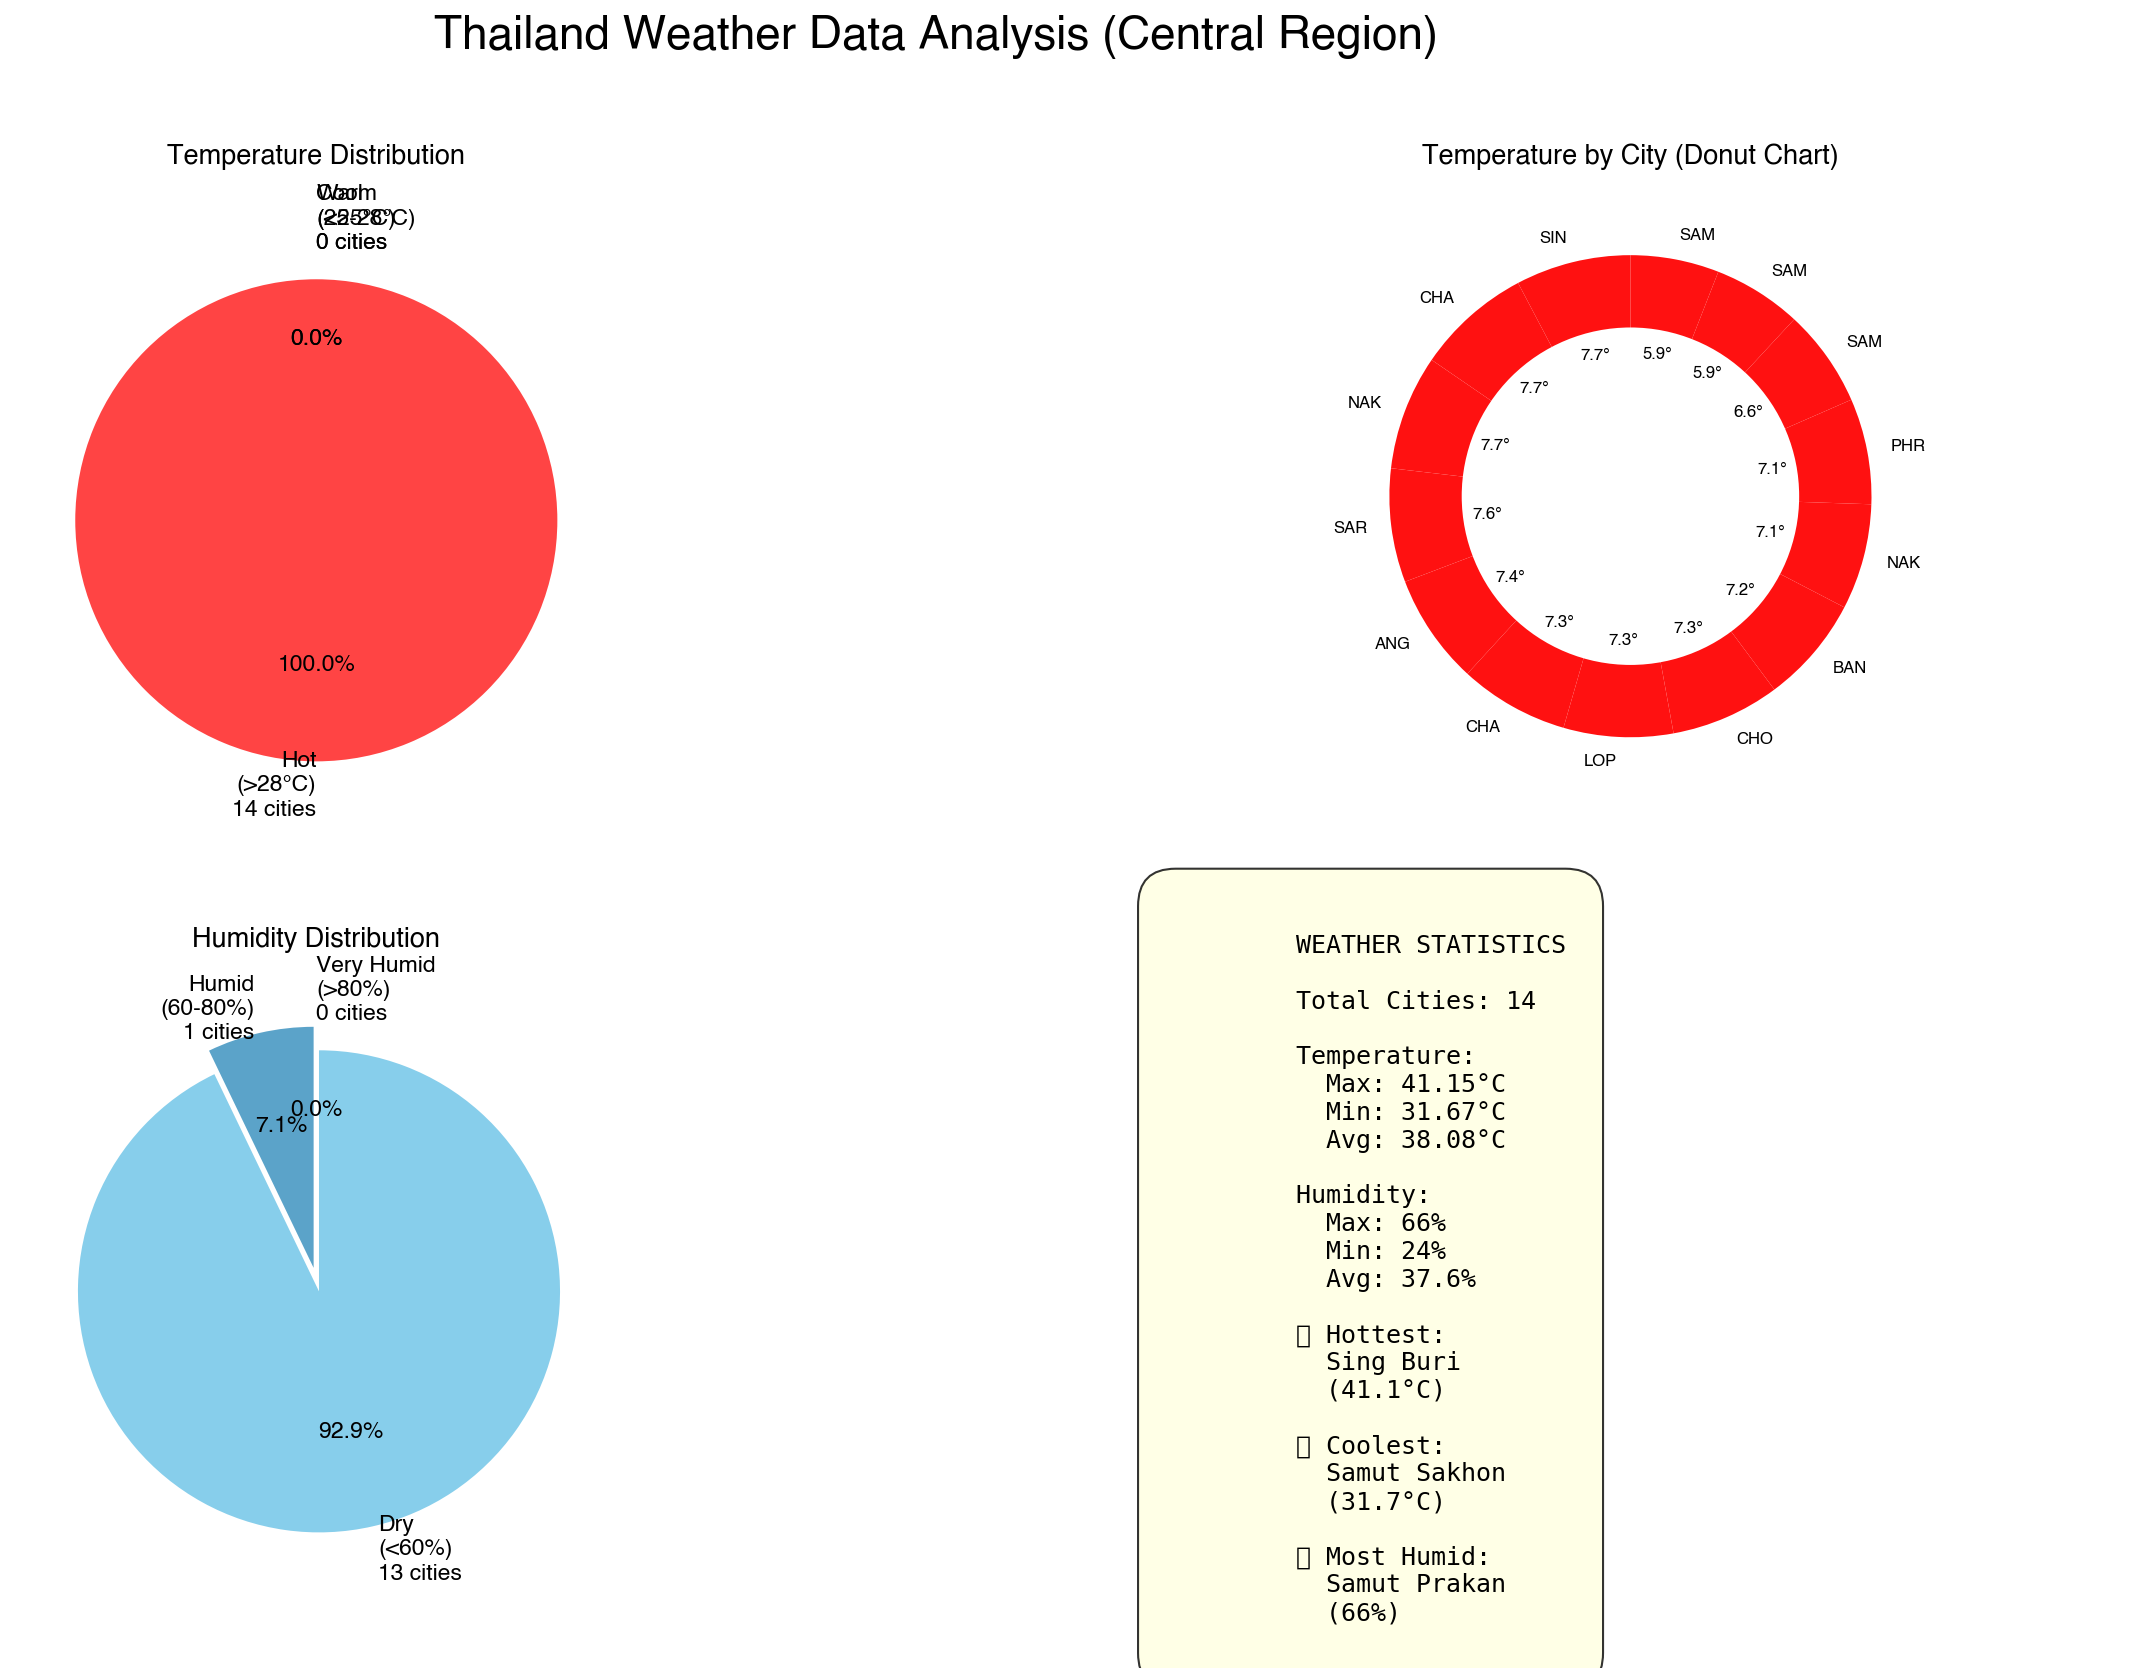
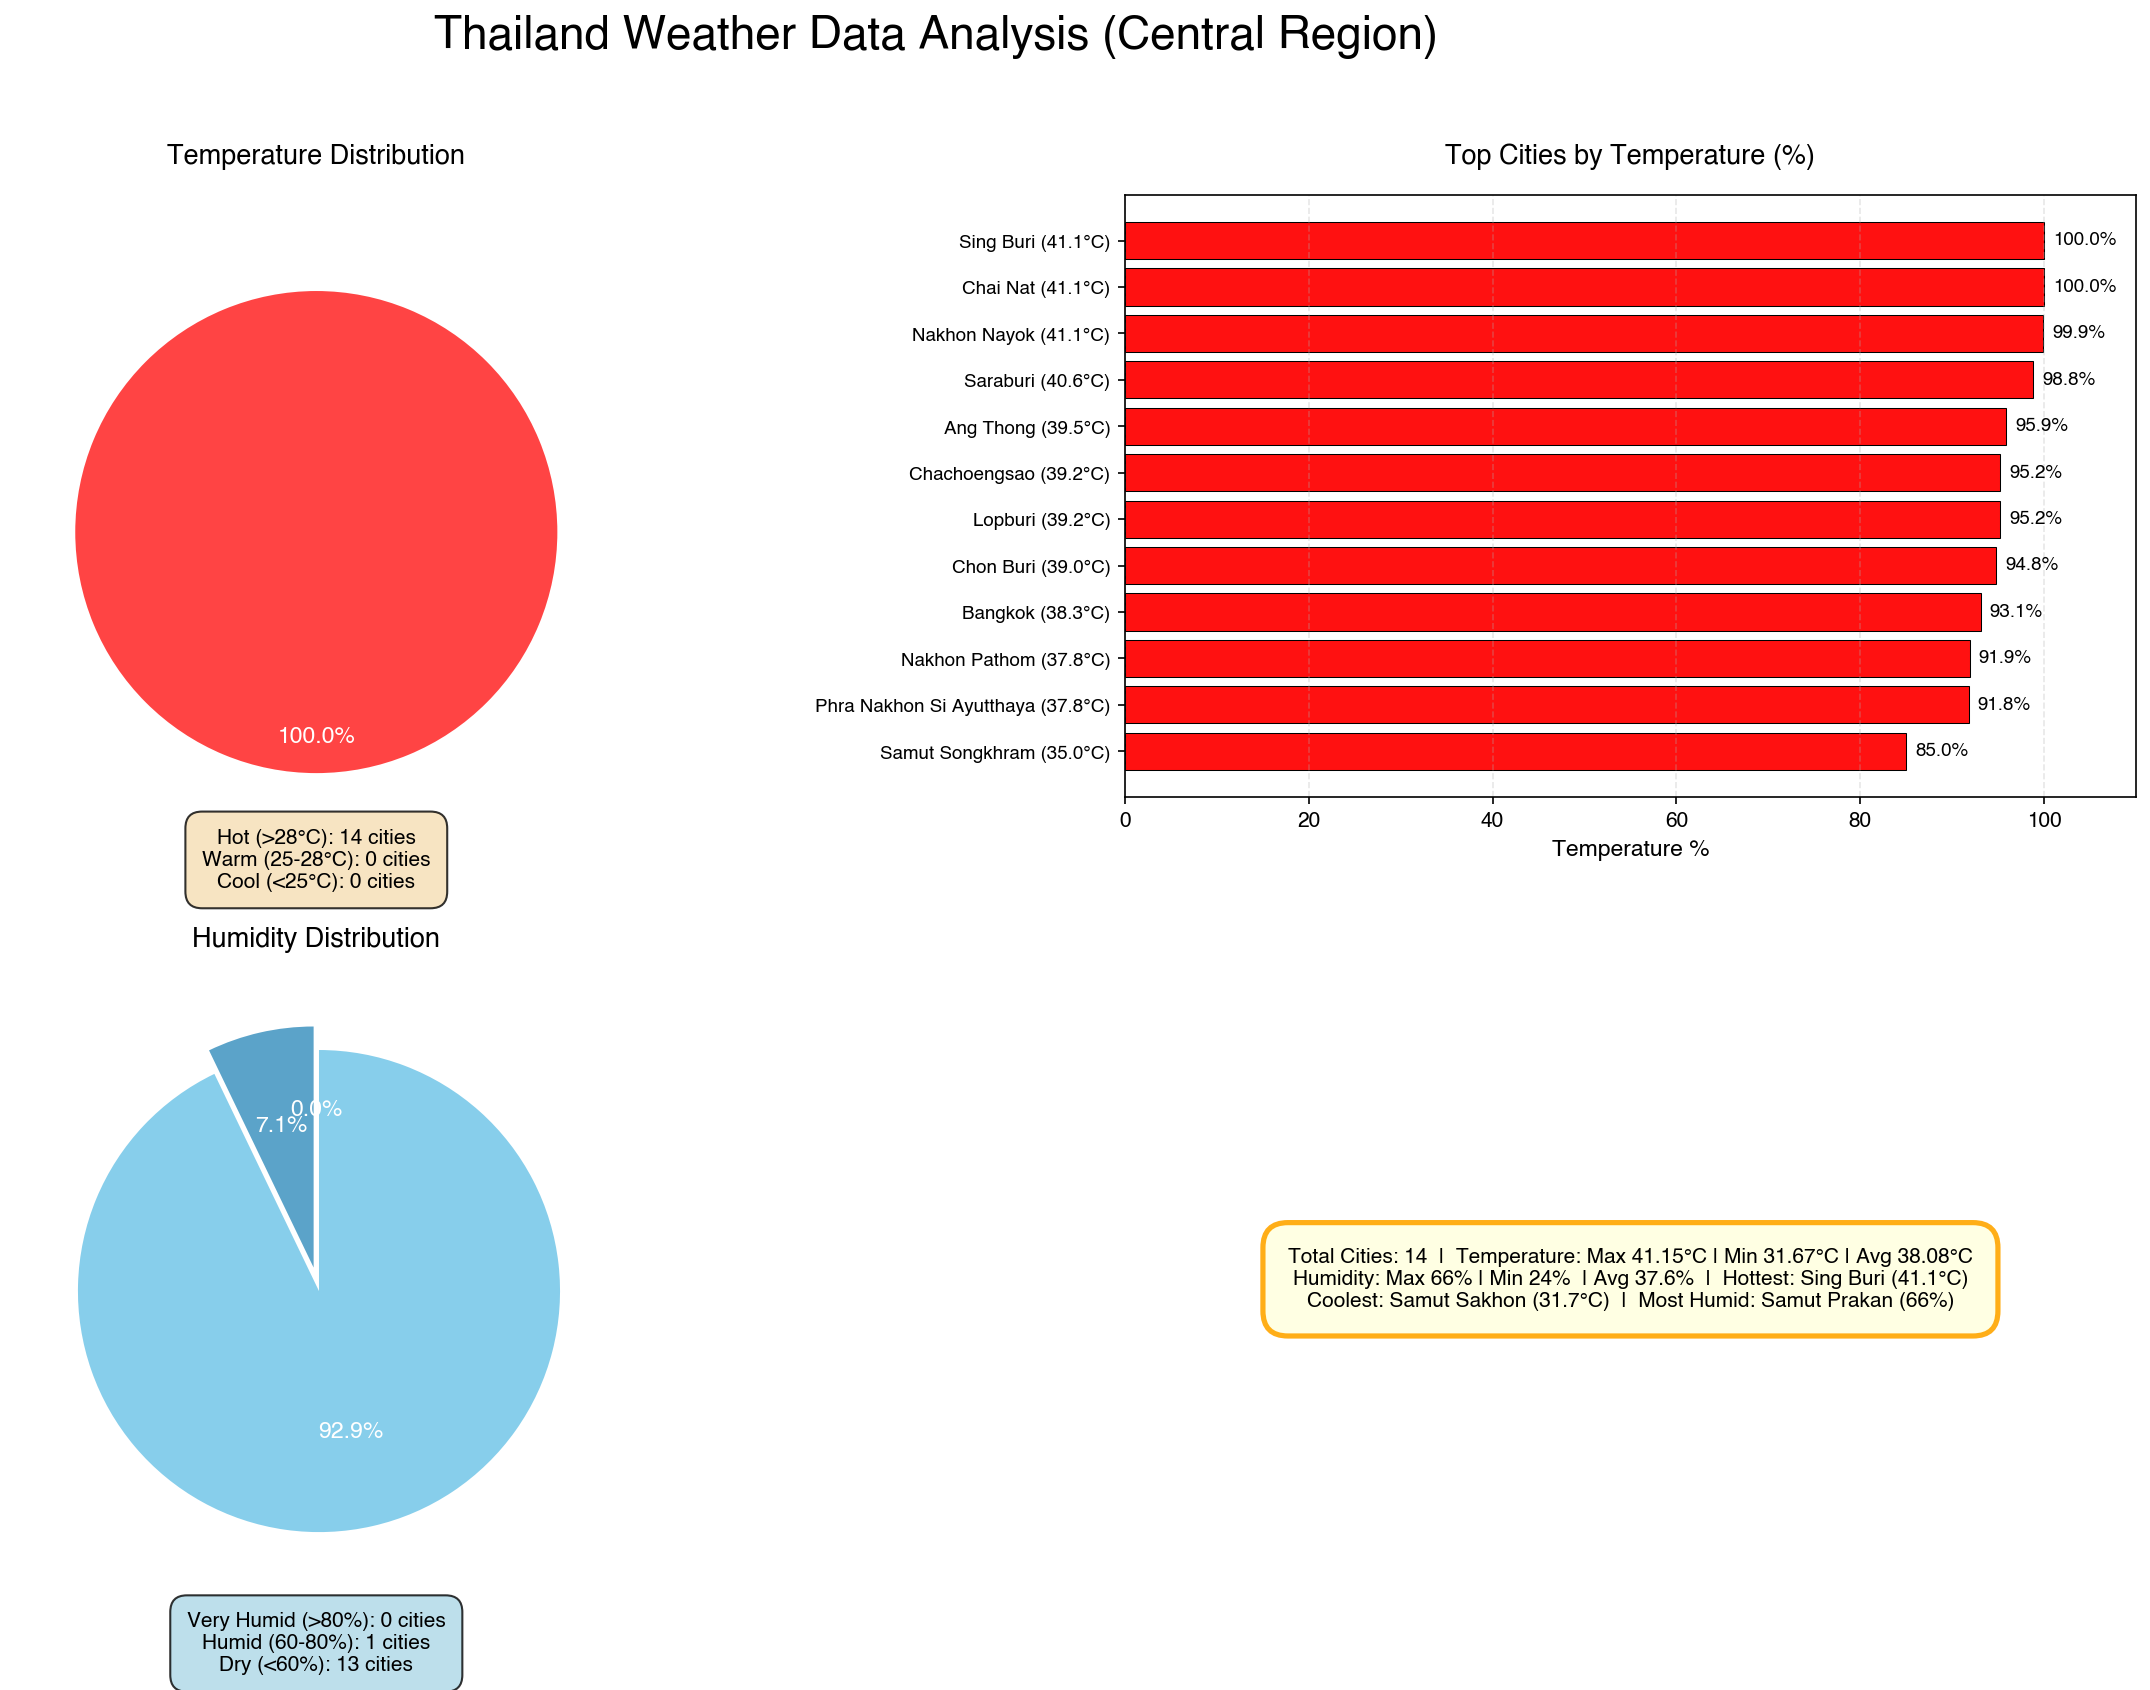
refactor: Improve weather dashboard layout with boxed labels
- Move temperature and humidity pie chart labels to boxes below charts
- Convert weather statistics to horizontal text box format
- Fix tight_layout warning by using subplots_adjust
- Simplify legend display for cleaner dashboard appearance
- Regenerate weather_analysis.png with improved layout

diff --git a/visualize.py b/visualize.py
@@ -29,113 +29,117 @@ def visualize_weather_data(csv_file="data/weather_data.csv"):
         # สร้าง figure
         fig = plt.figure(figsize=(20, 12))
         gs = fig.add_gridspec(2, 2, hspace=0.3, wspace=0.3)
-        
+
         fig.suptitle('Thailand Weather Data Analysis (Central Region)', fontsize=22, fontweight='bold', y=0.98)
         
         # ========== Pie Chart 1: อุณหภูมิที่จัดกลุ่ม ==========
         ax1 = fig.add_subplot(gs[0, 0])
-        
+
         # จัดกลุ่มอุณหภูมิ
         hot = len(df[df['temperature'] > 28])
         warm = len(df[(df['temperature'] >= 25) & (df['temperature'] <= 28)])
         cool = len(df[df['temperature'] < 25])
-        
+
         sizes = [hot, warm, cool]
-        labels = [f'Hot\n(>28°C)\n{hot} cities', 
-                  f'Warm\n(25-28°C)\n{warm} cities', 
-                  f'Cool\n(<25°C)\n{cool} cities']
+        labels = [f'Hot (>28°C)', f'Warm (25-28°C)', f'Cool (<25°C)']
         colors = ['#FF4444', '#FFA500', '#4488FF']
-        explode = (0.1, 0.05, 0.05)
-        
-        ax1.pie(sizes, labels=labels, colors=colors, autopct='%1.1f%%', 
-                startangle=90, explode=explode, textprops={'fontsize': 11, 'fontweight': 'bold'})
+        explode = (0.15, 0.1, 0.1)
+
+        # Pie chart โดยไม่แสดง labels รอบๆวงกลม
+        wedges, texts, autotexts = ax1.pie(sizes, colors=colors, autopct='%1.1f%%',
+                startangle=90, explode=explode, textprops={'fontsize': 11, 'fontweight': 'bold', 'color': 'white'},
+                pctdistance=0.85)
+
+        # ปรับตำแหน่งเปอร์เซ็นต์
+        for autotext in autotexts:
+            autotext.set_color('white')
+            autotext.set_fontsize(11)
+            autotext.set_fontweight('bold')
+
+        # เพิ่มกล่องข้อมูลรายละเอียดด้านบนอักษร
+        legend_text = '\n'.join([f'{labels[i]}: {sizes[i]} cities' for i in range(len(labels))])
+        ax1.text(0.5, -0.15, legend_text, transform=ax1.transAxes, fontsize=10,
+                bbox=dict(boxstyle='round', facecolor='wheat', alpha=0.8, pad=0.8),
+                ha='center', fontweight='bold')
+
         ax1.set_title('Temperature Distribution', fontsize=13, fontweight='bold', pad=15)
         
-        # ========== Donut Chart: จังหวัดและอุณหภูมิ ==========
+        # ========== Bar Chart: City Temperature Percentage ==========
         ax2 = fig.add_subplot(gs[0, 1])
 
-        temps = df_display['temperature'].values
-        city_labels = [f"{city[:3].upper()}\n{t:.1f}°" for city, t in zip(df_display['city'], temps)]
+        # คำนวณเปอร์เซ็นต์อุณหภูมิเทียบกับอุณหภูมิสูงสุด
+        df_sorted = df.sort_values('temperature', ascending=False)
+        max_temp = df_sorted['temperature'].max()
+        df_sorted['temp_pct'] = (df_sorted['temperature'] / max_temp * 100).round(1)
+
+        # เลือกเฉพาะ top 12
+        df_top = df_sorted.head(12)
 
         # สีตามอุณหภูมิ
-        colors_temp = ['#FF1111' if t > 28 else '#FF9900' if t >= 25 else '#4488FF' for t in temps]
+        colors_bar = ['#FF1111' if t > 28 else '#FF9900' if t >= 25 else '#4488FF'
+                      for t in df_top['temperature'].values]
 
-        # ใช้ pct_distance เพื่อให้ autolabels อยู่นอกวงกลม
-        wedges, texts, autotexts = ax2.pie(temps, labels=None, autopct='',
-                                            colors=colors_temp, startangle=90,
-                                            textprops={'fontsize': 8, 'fontweight': 'bold'})
+        # สร้าง horizontal bar chart
+        bars = ax2.barh(range(len(df_top)), df_top['temp_pct'].values, color=colors_bar, edgecolor='black', linewidth=0.5)
 
-        # เพิ่มวงกลมตรงกลางให้เป็น Donut
-        centre_circle = plt.Circle((0, 0), 0.70, fc='white')
-        ax2.add_artist(centre_circle)
+        # ตั้ง labels
+        ax2.set_yticks(range(len(df_top)))
+        ax2.set_yticklabels([f"{city} ({temp:.1f}°C)" for city, temp in
+                             zip(df_top['city'].values, df_top['temperature'].values)], fontsize=9, fontweight='bold')
 
-        # สร้างคำอธิบายด้านบน
-        legend_text = ", ".join([f"{city[:3].upper()} {t:.1f}°"
-                                 for city, t in zip(df_display['city'], temps)])
-        ax2.text(0.5, -1.35, legend_text, transform=ax2.transAxes,
-                fontsize=8, ha='center', wrap=True,
-                bbox=dict(boxstyle='round', facecolor='wheat', alpha=0.3))
+        # เพิ่มค่าเปอร์เซ็นต์บนบาร์
+        for i, (bar, val) in enumerate(zip(bars, df_top['temp_pct'].values)):
+            ax2.text(val + 1, i, f'{val:.1f}%', va='center', fontsize=9, fontweight='bold')
 
-        ax2.set_title('Temperature by City (Donut Chart)', fontsize=13, fontweight='bold', pad=15)
+        ax2.set_xlabel('Temperature %', fontsize=11, fontweight='bold')
+        ax2.set_xlim(0, 110)
+        ax2.set_title('Top Cities by Temperature (%)', fontsize=13, fontweight='bold', pad=15)
+        ax2.invert_yaxis()
+        ax2.grid(axis='x', linestyle='--', alpha=0.3)
         
         # ========== Pie Chart 2: ความชื้น ==========
         ax3 = fig.add_subplot(gs[1, 0])
-        
+
         # จัดกลุ่มความชื้น
         very_humid = len(df[df['humidity'] > 80])
         humid = len(df[(df['humidity'] >= 60) & (df['humidity'] <= 80)])
         dry = len(df[df['humidity'] < 60])
-        
+
         sizes_humidity = [very_humid, humid, dry]
-        labels_humidity = [f'Very Humid\n(>80%)\n{very_humid} cities', 
-                          f'Humid\n(60-80%)\n{humid} cities', 
-                          f'Dry\n(<60%)\n{dry} cities']
+        labels_humidity = ['Very Humid (>80%)', 'Humid (60-80%)', 'Dry (<60%)']
         colors_humidity = ['#2E7D9E', '#5BA3C9', '#87CEEB']
         explode_humidity = (0.1, 0.05, 0.05)
-        
-        ax3.pie(sizes_humidity, labels=labels_humidity, colors=colors_humidity, 
+
+        # Pie chart โดยไม่แสดง labels รอบๆวงกลม
+        ax3.pie(sizes_humidity, colors=colors_humidity,
                 autopct='%1.1f%%', startangle=90, explode=explode_humidity,
-                textprops={'fontsize': 11, 'fontweight': 'bold'})
+                textprops={'fontsize': 11, 'fontweight': 'bold', 'color': 'white'})
+
+        # เพิ่มกล่องข้อมูลรายละเอียดด้านล่าง
+        humidity_text = '\n'.join([f'{labels_humidity[i]}: {sizes_humidity[i]} cities'
+                                  for i in range(len(labels_humidity))])
+        ax3.text(0.5, -0.15, humidity_text, transform=ax3.transAxes, fontsize=10,
+                bbox=dict(boxstyle='round', facecolor='lightblue', alpha=0.8, pad=0.8),
+                ha='center', fontweight='bold')
+
         ax3.set_title('Humidity Distribution', fontsize=13, fontweight='bold', pad=15)
         
         # ========== สถิติทั่วไป ==========
-        ax4 = fig.add_subplot(gs[1, 1])
+        ax4 = fig.add_subplot(gs[1, 1])  # Position below Top Cities bar chart
         ax4.axis('off')
-        
-        stats_text = f"""
-        WEATHER STATISTICS
-        
-        Total Cities: {len(df)}
-        
-        Temperature:
-          Max: {df['temperature'].max():.2f}°C
-          Min: {df['temperature'].min():.2f}°C
-          Avg: {df['temperature'].mean():.2f}°C
-        
-        Humidity:
-          Max: {df['humidity'].max()}%
-          Min: {df['humidity'].min()}%
-          Avg: {df['humidity'].mean():.1f}%
-        
-        🔴 Hottest:
-          {df.loc[df['temperature'].idxmax(), 'city']}
-          ({df['temperature'].max():.1f}°C)
-        
-        🔵 Coolest:
-          {df.loc[df['temperature'].idxmin(), 'city']}
-          ({df['temperature'].min():.1f}°C)
-        
-        💧 Most Humid:
-          {df.loc[df['humidity'].idxmax(), 'city']}
-          ({df['humidity'].max()}%)
-        """
-        
-        ax4.text(0.05, 0.5, stats_text, fontsize=12, family='monospace',
-                verticalalignment='center', bbox=dict(boxstyle='round', 
-                facecolor='lightyellow', alpha=0.8, pad=1.5))
-        
+
+        stats_text = f"""Total Cities: {len(df)}  |  Temperature: Max {df['temperature'].max():.2f}°C | Min {df['temperature'].min():.2f}°C | Avg {df['temperature'].mean():.2f}°C
+Humidity: Max {df['humidity'].max()}% | Min {df['humidity'].min()}%  | Avg {df['humidity'].mean():.1f}%  |  Hottest: {df.loc[df['temperature'].idxmax(), 'city']} ({df['temperature'].max():.1f}°C)
+Coolest: {df.loc[df['temperature'].idxmin(), 'city']} ({df['temperature'].min():.1f}°C)  |  Most Humid: {df.loc[df['humidity'].idxmax(), 'city']} ({df['humidity'].max()}%)"""
+
+        ax4.text(0.5, 0.5, stats_text, fontsize=10,
+                verticalalignment='center', horizontalalignment='center',
+                transform=ax4.transAxes,
+                bbox=dict(boxstyle='round,pad=1.2', facecolor='lightyellow',
+                         edgecolor='orange', alpha=0.9, linewidth=2.5))
+
         # ปรับระยะห่าง
-        plt.tight_layout()
+        plt.subplots_adjust(hspace=0.3, wspace=0.3)
         
         # บันทึกเป็นไฟล์
         output_file = "weather_analysis.png"
